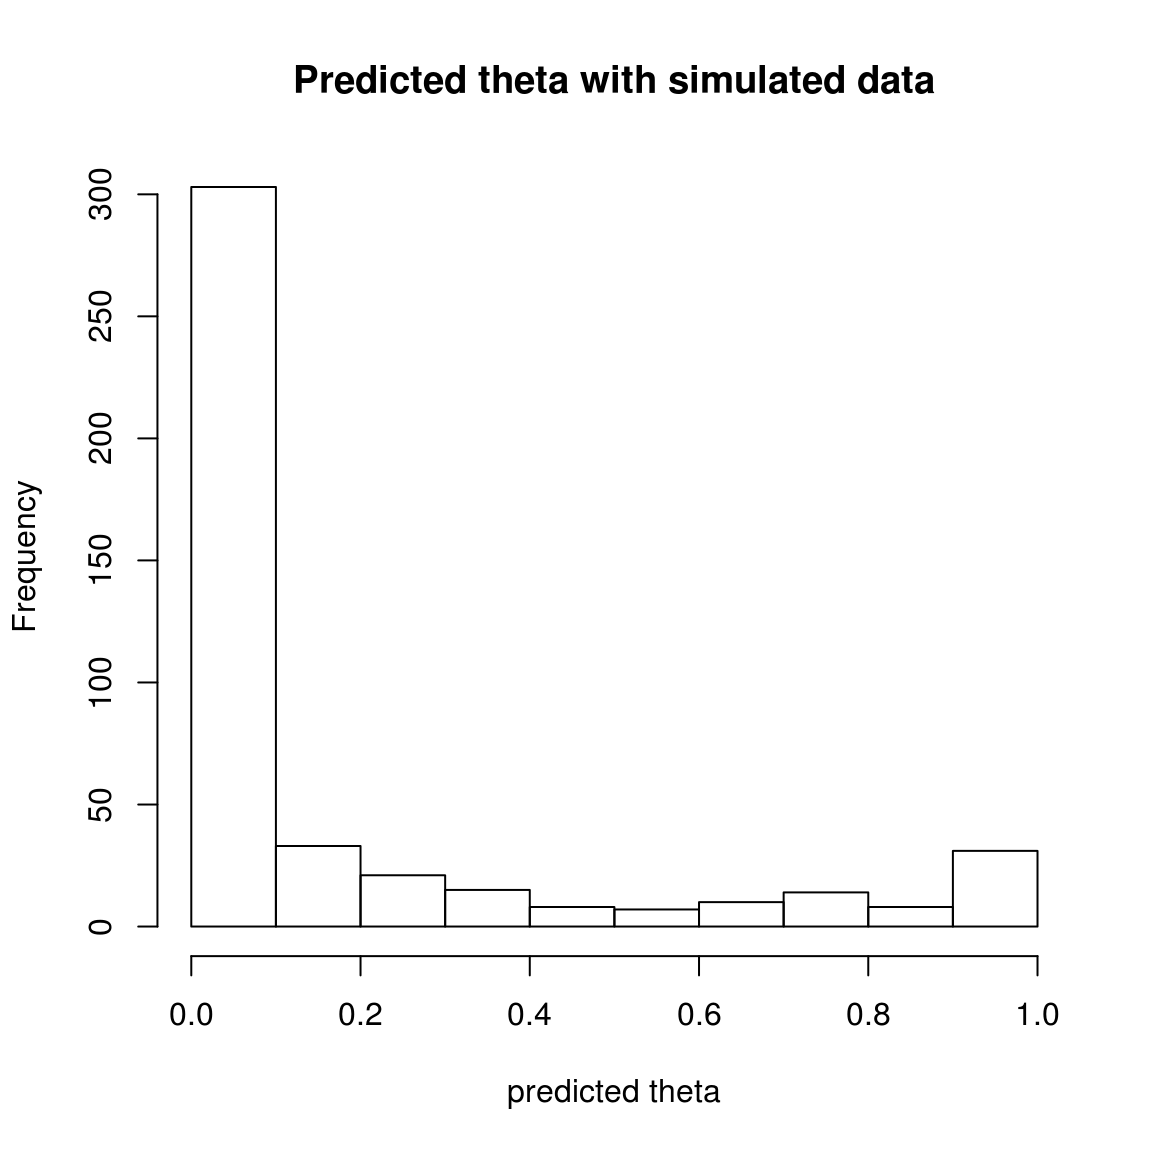
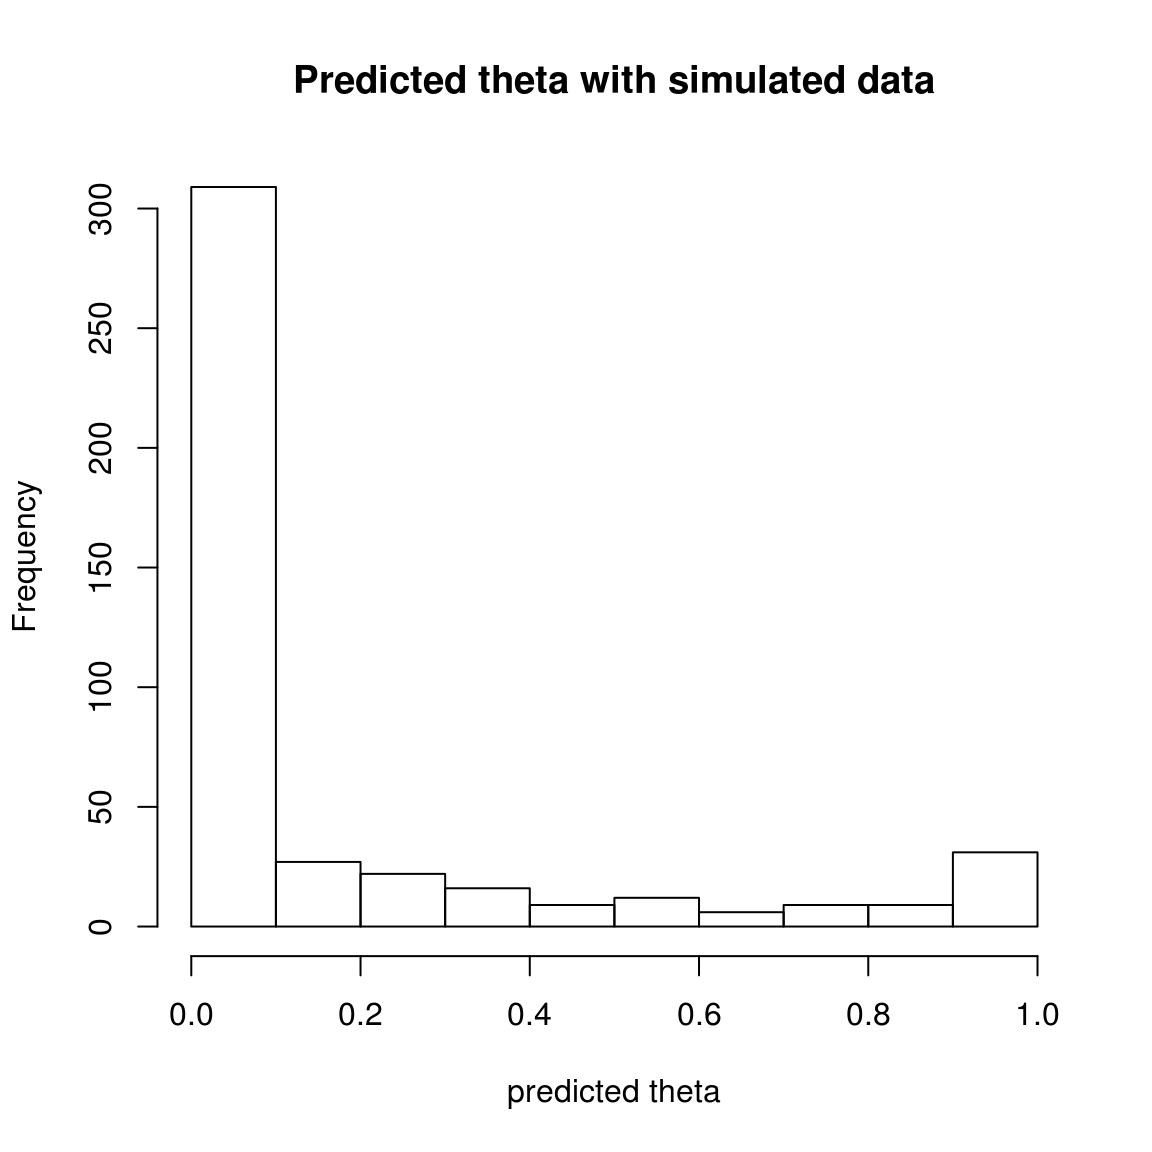
Deploy ghislainv/jSDM to github.com/ghislainv/jSDM.git:gh-pages

diff --git a/reference/predict.jSDM.html b/reference/predict.jSDM.html
@@ -206,7 +206,7 @@
 
 <span class='co'># Parameter inference</span>
 <span class='co'># Increase the number of iterations to reach MCMC convergence</span>
-<span class='no'>mod_jSDM_block_frogs</span> <span class='kw'>&lt;-</span> <span class='kw pkg'>jSDM</span><span class='kw ns'>::</span><span class='fu'><a href='https://www.rdocumentation.org/packages/jSDM/topics/jSDM_probit_block'>jSDM_probit_block</a></span> (
+<span class='no'>mod_jSDM_block_frogs</span> <span class='kw'>&lt;-</span> <span class='kw pkg'>jSDM</span><span class='kw ns'>::</span><span class='fu'><a href='https://www.rdocumentation.org/packages/jSDM/topics/jSDM_probit_block'>jSDM_probit_block</a></span>(
   <span class='co'># Response variable </span>
   <span class='kw'>presence_site_sp</span> <span class='kw'>=</span> <span class='fu'><a href='https://www.rdocumentation.org/packages/base/topics/matrix'>as.matrix</a></span>(<span class='no'>PA_frogs</span>),
   <span class='co'># Explanatory variables </span>
@@ -236,25 +236,15 @@
 #&gt; **********:80.0% 
 #&gt; **********:90.0% 
 #&gt; **********:100.0% </div><div class='input'>
-<span class='co'># Sites and species concerned by predictions :</span>
-<span class='co'>## 50 sites among the 104</span>
-<span class='no'>Id_sites</span> <span class='kw'>&lt;-</span> <span class='fu'><a href='https://www.rdocumentation.org/packages/base/topics/sample'>sample.int</a></span>(<span class='fu'><a href='https://www.rdocumentation.org/packages/base/topics/nrow'>nrow</a></span>(<span class='no'>PA_frogs</span>), <span class='fl'>50</span>)
-<span class='co'>## All species </span>
-<span class='no'>Id_species</span> <span class='kw'>&lt;-</span> <span class='fu'><a href='https://www.rdocumentation.org/packages/base/topics/colnames'>colnames</a></span>(<span class='no'>PA_frogs</span>)
-
-<span class='co'># Simulate new observations of covariates on those sites </span>
-<span class='no'>simdata</span> <span class='kw'>&lt;-</span> <span class='fu'><a href='https://www.rdocumentation.org/packages/base/topics/matrix'>matrix</a></span>(<span class='kw'>nrow</span><span class='kw'>=</span><span class='fl'>50</span>, <span class='kw'>ncol</span> <span class='kw'>=</span> <span class='fu'><a href='https://www.rdocumentation.org/packages/base/topics/nrow'>ncol</a></span>(<span class='no'>mod_jSDM_block_frogs</span>$<span class='no'>model_spec</span>$<span class='no'>site_data</span>))
-<span class='fu'><a href='https://www.rdocumentation.org/packages/base/topics/colnames'>colnames</a></span>(<span class='no'>simdata</span>) <span class='kw'>&lt;-</span> <span class='fu'><a href='https://www.rdocumentation.org/packages/base/topics/colnames'>colnames</a></span>(<span class='no'>mod_jSDM_block_frogs</span>$<span class='no'>model_spec</span>$<span class='no'>site_data</span>)
-<span class='fu'><a href='https://www.rdocumentation.org/packages/base/topics/colnames'>rownames</a></span>(<span class='no'>simdata</span>) <span class='kw'>&lt;-</span> <span class='no'>Id_sites</span>
-<span class='no'>simdata</span> <span class='kw'>&lt;-</span> <span class='fu'><a href='https://www.rdocumentation.org/packages/base/topics/as.data.frame'>as.data.frame</a></span>(<span class='no'>simdata</span>)
-<span class='no'>simdata</span>$<span class='no'>Covariate_1</span> <span class='kw'>&lt;-</span> <span class='fu'><a href='https://www.rdocumentation.org/packages/stats/topics/Normal'>rnorm</a></span>(<span class='fl'>50</span>)
-<span class='no'>simdata</span>$<span class='no'>Covariate_3</span> <span class='kw'>&lt;-</span> <span class='fu'><a href='https://www.rdocumentation.org/packages/stats/topics/Normal'>rnorm</a></span>(<span class='fl'>50</span>)
-<span class='no'>simdata</span>$<span class='no'>Covariate_2</span> <span class='kw'>&lt;-</span> <span class='fu'><a href='https://www.rdocumentation.org/packages/stats/topics/Binomial'>rbinom</a></span>(<span class='fl'>50</span>,<span class='fl'>1</span>,<span class='fl'>0.5</span>)
+<span class='co'># Select site and species for predictions</span>
+<span class='co'>## 30 sites</span>
+<span class='no'>Id_sites</span> <span class='kw'>&lt;-</span> <span class='fu'><a href='https://www.rdocumentation.org/packages/base/topics/sample'>sample.int</a></span>(<span class='fu'><a href='https://www.rdocumentation.org/packages/base/topics/nrow'>nrow</a></span>(<span class='no'>PA_frogs</span>), <span class='fl'>30</span>)
+<span class='co'>## 5 species</span>
+<span class='no'>Id_species</span> <span class='kw'>&lt;-</span> <span class='fu'><a href='https://www.rdocumentation.org/packages/base/topics/sample'>sample</a></span>(<span class='fu'><a href='https://www.rdocumentation.org/packages/base/topics/colnames'>colnames</a></span>(<span class='no'>PA_frogs</span>), <span class='fl'>5</span>)
 
 <span class='co'># Predictions </span>
-<span class='no'>theta_pred</span> <span class='kw'>&lt;-</span> <span class='fu'>predict.jSDM</span>(
-<span class='no'>mod_jSDM_block_frogs</span>, <span class='kw'>newdata</span><span class='kw'>=</span><span class='no'>simdata</span>,
-<span class='kw'>Id_species</span><span class='kw'>=</span><span class='no'>Id_species</span>, <span class='kw'>Id_sites</span><span class='kw'>=</span><span class='no'>Id_sites</span>, <span class='kw'>type</span><span class='kw'>=</span><span class='st'>"mean"</span>)
+<span class='no'>theta_pred</span> <span class='kw'>&lt;-</span> <span class='kw pkg'>jSDM</span><span class='kw ns'>::</span><span class='fu'><a href='https://www.rdocumentation.org/packages/jSDM/topics/predict.jSDM'>predict.jSDM</a></span>(<span class='no'>mod_jSDM_block_frogs</span>,
+  <span class='kw'>Id_species</span><span class='kw'>=</span><span class='no'>Id_species</span>, <span class='kw'>Id_sites</span><span class='kw'>=</span><span class='no'>Id_sites</span>, <span class='kw'>type</span><span class='kw'>=</span><span class='st'>"mean"</span>)
 <span class='fu'><a href='https://www.rdocumentation.org/packages/graphics/topics/hist'>hist</a></span>(<span class='no'>theta_pred</span>, <span class='kw'>main</span><span class='kw'>=</span><span class='st'>"Predicted theta with simulated covariates"</span>)</div><div class='img'><img src='predict.jSDM-1.png' alt='' width='700' height='433' /></div><div class='input'>
 </div></pre>
   </div>

diff --git a/reference/logit.html b/reference/logit.html
@@ -186,14 +186,92 @@
     
 
     <h2 class="hasAnchor" id="examples"><a class="anchor" href="#examples"></a>Examples</h2>
-    <pre class="examples"><span class='co'># NOT RUN {</span>
-  <span class='no'>x</span> <span class='kw'>&lt;-</span> <span class='fu'><a href='https://www.rdocumentation.org/packages/base/topics/seq'>seq</a></span>(<span class='fl'>0</span>,<span class='fl'>10</span>, <span class='kw'>by</span><span class='kw'>=</span><span class='fl'>0.25</span>)
-  <span class='no'>xt</span> <span class='kw'>&lt;-</span> <span class='fu'>logit</span>(<span class='no'>x</span>, <span class='kw'>min</span><span class='kw'>=</span><span class='fl'>0</span>, <span class='kw'>max</span><span class='kw'>=</span><span class='fl'>10</span>)
-  <span class='fu'><a href='https://www.rdocumentation.org/packages/base/topics/cbind'>cbind</a></span>(<span class='no'>x</span>,<span class='no'>xt</span>)
-
-  <span class='no'>y</span> <span class='kw'>&lt;-</span> <span class='fu'>inv_logit</span>(<span class='no'>xt</span>, <span class='kw'>min</span><span class='kw'>=</span><span class='fl'>0</span>, <span class='kw'>max</span><span class='kw'>=</span><span class='fl'>10</span>)
-  <span class='fu'><a href='https://www.rdocumentation.org/packages/base/topics/cbind'>cbind</a></span>(<span class='no'>x</span>,<span class='no'>xt</span>,<span class='no'>y</span>)
-<span class='co'># }</span></pre>
+    <pre class="examples"><div class='input'>  <span class='no'>x</span> <span class='kw'>&lt;-</span> <span class='fu'><a href='https://www.rdocumentation.org/packages/base/topics/seq'>seq</a></span>(<span class='fl'>0</span>,<span class='fl'>10</span>, <span class='kw'>by</span><span class='kw'>=</span><span class='fl'>0.25</span>)
+  <span class='no'>xt</span> <span class='kw'>&lt;-</span> <span class='kw pkg'>jSDM</span><span class='kw ns'>::</span><span class='fu'><a href='https://www.rdocumentation.org/packages/jSDM/topics/logit'>logit</a></span>(<span class='no'>x</span>, <span class='kw'>min</span><span class='kw'>=</span><span class='fl'>0</span>, <span class='kw'>max</span><span class='kw'>=</span><span class='fl'>10</span>)
+  <span class='fu'><a href='https://www.rdocumentation.org/packages/base/topics/cbind'>cbind</a></span>(<span class='no'>x</span>,<span class='no'>xt</span>)</div><div class='output co'>#&gt;           x         xt
+#&gt;  [1,]  0.00       -Inf
+#&gt;  [2,]  0.25 -3.6635616
+#&gt;  [3,]  0.50 -2.9444390
+#&gt;  [4,]  0.75 -2.5123056
+#&gt;  [5,]  1.00 -2.1972246
+#&gt;  [6,]  1.25 -1.9459101
+#&gt;  [7,]  1.50 -1.7346011
+#&gt;  [8,]  1.75 -1.5505974
+#&gt;  [9,]  2.00 -1.3862944
+#&gt; [10,]  2.25 -1.2367626
+#&gt; [11,]  2.50 -1.0986123
+#&gt; [12,]  2.75 -0.9694006
+#&gt; [13,]  3.00 -0.8472979
+#&gt; [14,]  3.25 -0.7308875
+#&gt; [15,]  3.50 -0.6190392
+#&gt; [16,]  3.75 -0.5108256
+#&gt; [17,]  4.00 -0.4054651
+#&gt; [18,]  4.25 -0.3022809
+#&gt; [19,]  4.50 -0.2006707
+#&gt; [20,]  4.75 -0.1000835
+#&gt; [21,]  5.00  0.0000000
+#&gt; [22,]  5.25  0.1000835
+#&gt; [23,]  5.50  0.2006707
+#&gt; [24,]  5.75  0.3022809
+#&gt; [25,]  6.00  0.4054651
+#&gt; [26,]  6.25  0.5108256
+#&gt; [27,]  6.50  0.6190392
+#&gt; [28,]  6.75  0.7308875
+#&gt; [29,]  7.00  0.8472979
+#&gt; [30,]  7.25  0.9694006
+#&gt; [31,]  7.50  1.0986123
+#&gt; [32,]  7.75  1.2367626
+#&gt; [33,]  8.00  1.3862944
+#&gt; [34,]  8.25  1.5505974
+#&gt; [35,]  8.50  1.7346011
+#&gt; [36,]  8.75  1.9459101
+#&gt; [37,]  9.00  2.1972246
+#&gt; [38,]  9.25  2.5123056
+#&gt; [39,]  9.50  2.9444390
+#&gt; [40,]  9.75  3.6635616
+#&gt; [41,] 10.00        Inf</div><div class='input'>  <span class='no'>y</span> <span class='kw'>&lt;-</span> <span class='kw pkg'>jSDM</span><span class='kw ns'>::</span><span class='fu'><a href='https://www.rdocumentation.org/packages/jSDM/topics/logit'>inv_logit</a></span>(<span class='no'>xt</span>, <span class='kw'>min</span><span class='kw'>=</span><span class='fl'>0</span>, <span class='kw'>max</span><span class='kw'>=</span><span class='fl'>10</span>)
+  <span class='fu'><a href='https://www.rdocumentation.org/packages/base/topics/cbind'>cbind</a></span>(<span class='no'>x</span>,<span class='no'>xt</span>,<span class='no'>y</span>)</div><div class='output co'>#&gt;           x         xt     y
+#&gt;  [1,]  0.00       -Inf  0.00
+#&gt;  [2,]  0.25 -3.6635616  0.25
+#&gt;  [3,]  0.50 -2.9444390  0.50
+#&gt;  [4,]  0.75 -2.5123056  0.75
+#&gt;  [5,]  1.00 -2.1972246  1.00
+#&gt;  [6,]  1.25 -1.9459101  1.25
+#&gt;  [7,]  1.50 -1.7346011  1.50
+#&gt;  [8,]  1.75 -1.5505974  1.75
+#&gt;  [9,]  2.00 -1.3862944  2.00
+#&gt; [10,]  2.25 -1.2367626  2.25
+#&gt; [11,]  2.50 -1.0986123  2.50
+#&gt; [12,]  2.75 -0.9694006  2.75
+#&gt; [13,]  3.00 -0.8472979  3.00
+#&gt; [14,]  3.25 -0.7308875  3.25
+#&gt; [15,]  3.50 -0.6190392  3.50
+#&gt; [16,]  3.75 -0.5108256  3.75
+#&gt; [17,]  4.00 -0.4054651  4.00
+#&gt; [18,]  4.25 -0.3022809  4.25
+#&gt; [19,]  4.50 -0.2006707  4.50
+#&gt; [20,]  4.75 -0.1000835  4.75
+#&gt; [21,]  5.00  0.0000000  5.00
+#&gt; [22,]  5.25  0.1000835  5.25
+#&gt; [23,]  5.50  0.2006707  5.50
+#&gt; [24,]  5.75  0.3022809  5.75
+#&gt; [25,]  6.00  0.4054651  6.00
+#&gt; [26,]  6.25  0.5108256  6.25
+#&gt; [27,]  6.50  0.6190392  6.50
+#&gt; [28,]  6.75  0.7308875  6.75
+#&gt; [29,]  7.00  0.8472979  7.00
+#&gt; [30,]  7.25  0.9694006  7.25
+#&gt; [31,]  7.50  1.0986123  7.50
+#&gt; [32,]  7.75  1.2367626  7.75
+#&gt; [33,]  8.00  1.3862944  8.00
+#&gt; [34,]  8.25  1.5505974  8.25
+#&gt; [35,]  8.50  1.7346011  8.50
+#&gt; [36,]  8.75  1.9459101  8.75
+#&gt; [37,]  9.00  2.1972246  9.00
+#&gt; [38,]  9.25  2.5123056  9.25
+#&gt; [39,]  9.50  2.9444390  9.50
+#&gt; [40,]  9.75  3.6635616  9.75
+#&gt; [41,] 10.00        Inf 10.00</div></pre>
   </div>
   <div class="col-md-3 hidden-xs hidden-sm" id="sidebar">
     <h2>Contents</h2>

diff --git a/reference/plot_residual_cor.html b/reference/plot_residual_cor.html
@@ -203,7 +203,7 @@
 #&gt; **********:90.0% 
 #&gt; **********:100.0% </div><div class='input'>
 <span class='co'># Representation of residual correlation between species </span>
-<span class='fu'>plot_residual_cor</span>(<span class='no'>mod_jSDM_block_frogs</span>)</div><div class='img'><img src='plot_residual_cor-1.png' alt='' width='700' height='433' /></div><div class='input'>
+<span class='kw pkg'>jSDM</span><span class='kw ns'>::</span><span class='fu'><a href='https://www.rdocumentation.org/packages/jSDM/topics/plot_residual_cor'>plot_residual_cor</a></span>(<span class='no'>mod_jSDM_block_frogs</span>)</div><div class='img'><img src='plot_residual_cor-1.png' alt='' width='700' height='433' /></div><div class='input'>
 </div></pre>
   </div>
   <div class="col-md-3 hidden-xs hidden-sm" id="sidebar">
